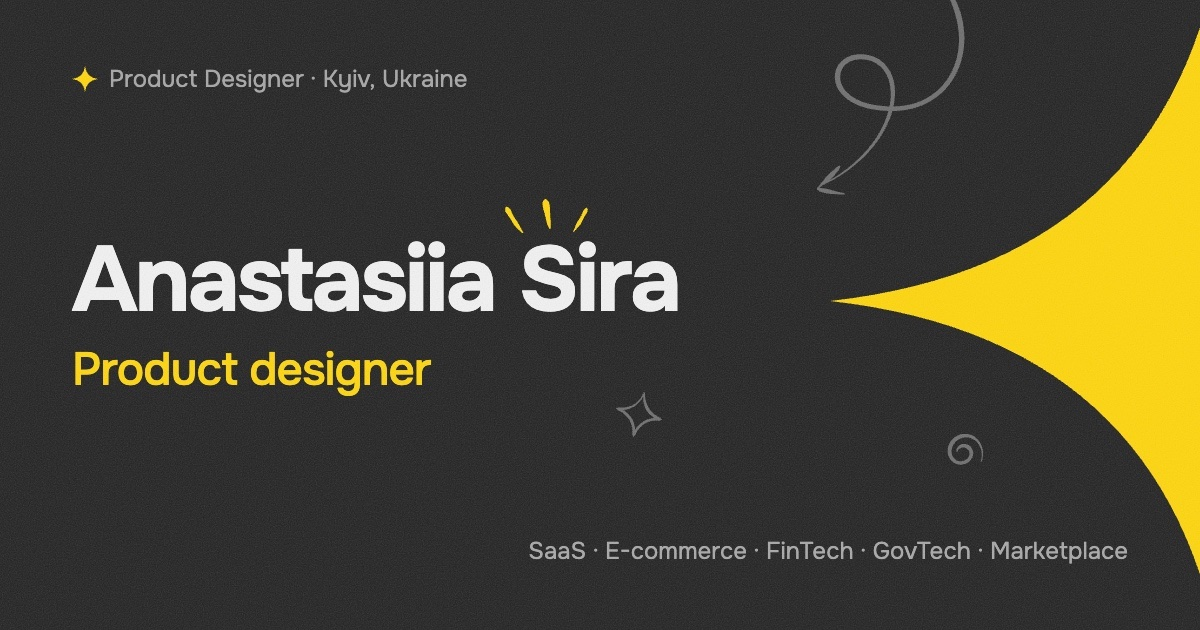
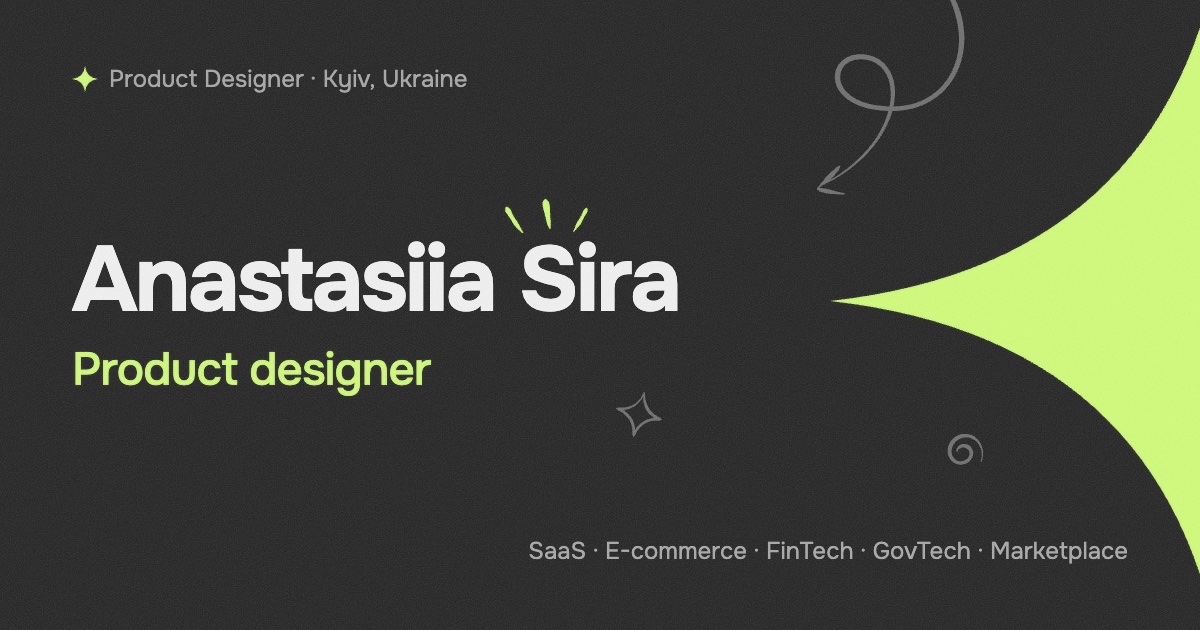
Switch to lime and violet brand colours, new background, OOO roundings
Main accent is now lime #D1FD79 and the second accent violet #6242F5,
including the favicons and the share image. Page background is #1E1F1F.
The hero headline drops the violet word and the final dot. OOO photos
mix small, medium and full-circle roundings.

diff --git a/index.html b/index.html
@@ -104,12 +104,12 @@
       <button class="hero__star-btn" type="button" aria-label="Spin the star"></button>
       <svg class="hero__decor-art" viewBox="0 0 360 360" fill="none" aria-hidden="true" focusable="false">
         <circle cx="180" cy="180" r="224" stroke="rgba(255,255,255,0.08)"/><!-- outer ring, 25% bigger, may overflow the box -->
-        <circle class="hero__ring" cx="180" cy="180" r="120" stroke="#ffd60a" stroke-opacity="0.5" stroke-width="2" stroke-dasharray="8 18"/>
+        <circle class="hero__ring" cx="180" cy="180" r="120" stroke="#d1fd79" stroke-opacity="0.5" stroke-width="2" stroke-dasharray="8 18"/>
         <g class="hero__star">
-          <path fill="#ffd60a" transform="translate(110 110) scale(5.8333)" d="M12 0C12.8 7.2 16.8 11.2 24 12C16.8 12.8 12.8 16.8 12 24C11.2 16.8 7.2 12.8 0 12C7.2 11.2 11.2 7.2 12 0Z"/>
+          <path fill="#d1fd79" transform="translate(110 110) scale(5.8333)" d="M12 0C12.8 7.2 16.8 11.2 24 12C16.8 12.8 12.8 16.8 12 24C11.2 16.8 7.2 12.8 0 12C7.2 11.2 11.2 7.2 12 0Z"/>
         </g>
         <g class="hero__sparkle"><!-- small star: orbits the centre once while the big star spins -->
-          <path fill="rgba(255,214,10,0.7)" transform="translate(262 44) rotate(-41 9 9) scale(0.75)" d="M12 0C12.8 7.2 16.8 11.2 24 12C16.8 12.8 12.8 16.8 12 24C11.2 16.8 7.2 12.8 0 12C7.2 11.2 11.2 7.2 12 0Z"/>
+          <path fill="rgba(209,253,121,0.7)" transform="translate(262 44) rotate(-41 9 9) scale(0.75)" d="M12 0C12.8 7.2 16.8 11.2 24 12C16.8 12.8 12.8 16.8 12 24C11.2 16.8 7.2 12.8 0 12C7.2 11.2 11.2 7.2 12 0Z"/>
         </g>
       </svg>
       </div>
@@ -119,7 +119,7 @@
         <p class="hero__label">Product Designer</p>
       </div>
 
-      <h1 class="hero__title" id="hero-title">I design with <span class="accent">curiosity</span> and<br> a <span class="accent-purple">reason</span> behind every pixel<span class="accent">.</span></h1>
+      <h1 class="hero__title" id="hero-title">I design with <span class="accent">curiosity</span> and<br> a reason behind every pixel</h1>
 
       <p class="hero__text">6+ years designing complex digital products across SaaS, E-commerce, Marketplace, FinTech and GovTech. I improve user journeys and business metrics through research and hypothesis-driven design.</p>
 
@@ -264,28 +264,28 @@
       <div class="gallery">
         <div class="gallery__track">
           <ul class="gallery__list">
-            <li class="gallery__item media"><img src="assets/photo-1.jpeg" alt="Standing by a lakeside railing, with green hills and a speedboat behind" width="1038" height="1280" loading="lazy"></li>
-            <li class="gallery__item media"><img src="assets/photo-2.jpeg" alt="In a grey hoodie on a golden mountain meadow in autumn" width="795" height="894" loading="lazy"></li>
-            <li class="gallery__item media"><img src="assets/photo-3.jpeg" alt="Two glasses of rosé and a box of cheese on a picnic bench at a food and wine festival" width="720" height="772" loading="lazy"></li>
-            <li class="gallery__item media"><img src="assets/photo-4.jpeg" alt="Looking at Monet’s Poppy Field in a museum" width="720" height="716" loading="lazy"></li>
-            <li class="gallery__item media"><img src="assets/photo-5.jpeg" alt="Holding a freshly found porcini mushroom in an autumn forest" width="1117" height="1280" loading="lazy"></li>
-            <li class="gallery__item media"><img src="assets/photo-6.jpeg" alt="Flowering cacti against a clear blue sky in Sharm el-Sheikh" width="720" height="808" loading="lazy"></li>
-            <li class="gallery__item media"><img src="assets/photo-7.jpeg" alt="Selfie with long wavy blonde hair" width="720" height="1280" loading="lazy"></li>
-            <li class="gallery__item media"><img src="assets/photo-8.jpeg" alt="Homemade crêpes in a pan and stacked on a plate" width="720" height="1280" loading="lazy"></li>
-            <li class="gallery__item media"><img src="assets/photo-9.jpeg" alt="Orange sunset over the city skyline" width="1137" height="1280" loading="lazy"></li>
-            <li class="gallery__item media"><img src="assets/photo-10.jpeg" alt="An open book on a beach towel in the sun" width="1040" height="1280" loading="lazy"></li>
+            <li class="gallery__item gallery__item--lg media"><img src="assets/photo-1.jpeg" alt="Standing by a lakeside railing, with green hills and a speedboat behind" width="1038" height="1280" loading="lazy"></li>
+            <li class="gallery__item gallery__item--md media"><img src="assets/photo-2.jpeg" alt="In a grey hoodie on a golden mountain meadow in autumn" width="795" height="894" loading="lazy"></li>
+            <li class="gallery__item gallery__item--sm media"><img src="assets/photo-3.jpeg" alt="Two glasses of rosé and a box of cheese on a picnic bench at a food and wine festival" width="720" height="772" loading="lazy"></li>
+            <li class="gallery__item gallery__item--md media"><img src="assets/photo-4.jpeg" alt="Looking at Monet’s Poppy Field in a museum" width="720" height="716" loading="lazy"></li>
+            <li class="gallery__item gallery__item--lg media"><img src="assets/photo-5.jpeg" alt="Holding a freshly found porcini mushroom in an autumn forest" width="1117" height="1280" loading="lazy"></li>
+            <li class="gallery__item gallery__item--sm media"><img src="assets/photo-6.jpeg" alt="Flowering cacti against a clear blue sky in Sharm el-Sheikh" width="720" height="808" loading="lazy"></li>
+            <li class="gallery__item gallery__item--lg media"><img src="assets/photo-7.jpeg" alt="Selfie with long wavy blonde hair" width="720" height="1280" loading="lazy"></li>
+            <li class="gallery__item gallery__item--sm media"><img src="assets/photo-8.jpeg" alt="Homemade crêpes in a pan and stacked on a plate" width="720" height="1280" loading="lazy"></li>
+            <li class="gallery__item gallery__item--md media"><img src="assets/photo-9.jpeg" alt="Orange sunset over the city skyline" width="1137" height="1280" loading="lazy"></li>
+            <li class="gallery__item gallery__item--sm media"><img src="assets/photo-10.jpeg" alt="An open book on a beach towel in the sun" width="1040" height="1280" loading="lazy"></li>
           </ul>
           <ul class="gallery__list" aria-hidden="true">
-            <li class="gallery__item media"><img src="assets/photo-1.jpeg" alt="" width="1038" height="1280" loading="lazy"></li>
-            <li class="gallery__item media"><img src="assets/photo-2.jpeg" alt="" width="795" height="894" loading="lazy"></li>
-            <li class="gallery__item media"><img src="assets/photo-3.jpeg" alt="" width="720" height="772" loading="lazy"></li>
-            <li class="gallery__item media"><img src="assets/photo-4.jpeg" alt="" width="720" height="716" loading="lazy"></li>
-            <li class="gallery__item media"><img src="assets/photo-5.jpeg" alt="" width="1117" height="1280" loading="lazy"></li>
-            <li class="gallery__item media"><img src="assets/photo-6.jpeg" alt="" width="720" height="808" loading="lazy"></li>
-            <li class="gallery__item media"><img src="assets/photo-7.jpeg" alt="" width="720" height="1280" loading="lazy"></li>
-            <li class="gallery__item media"><img src="assets/photo-8.jpeg" alt="" width="720" height="1280" loading="lazy"></li>
-            <li class="gallery__item media"><img src="assets/photo-9.jpeg" alt="" width="1137" height="1280" loading="lazy"></li>
-            <li class="gallery__item media"><img src="assets/photo-10.jpeg" alt="" width="1040" height="1280" loading="lazy"></li>
+            <li class="gallery__item gallery__item--lg media"><img src="assets/photo-1.jpeg" alt="" width="1038" height="1280" loading="lazy"></li>
+            <li class="gallery__item gallery__item--md media"><img src="assets/photo-2.jpeg" alt="" width="795" height="894" loading="lazy"></li>
+            <li class="gallery__item gallery__item--sm media"><img src="assets/photo-3.jpeg" alt="" width="720" height="772" loading="lazy"></li>
+            <li class="gallery__item gallery__item--md media"><img src="assets/photo-4.jpeg" alt="" width="720" height="716" loading="lazy"></li>
+            <li class="gallery__item gallery__item--lg media"><img src="assets/photo-5.jpeg" alt="" width="1117" height="1280" loading="lazy"></li>
+            <li class="gallery__item gallery__item--sm media"><img src="assets/photo-6.jpeg" alt="" width="720" height="808" loading="lazy"></li>
+            <li class="gallery__item gallery__item--lg media"><img src="assets/photo-7.jpeg" alt="" width="720" height="1280" loading="lazy"></li>
+            <li class="gallery__item gallery__item--sm media"><img src="assets/photo-8.jpeg" alt="" width="720" height="1280" loading="lazy"></li>
+            <li class="gallery__item gallery__item--md media"><img src="assets/photo-9.jpeg" alt="" width="1137" height="1280" loading="lazy"></li>
+            <li class="gallery__item gallery__item--sm media"><img src="assets/photo-10.jpeg" alt="" width="1040" height="1280" loading="lazy"></li>
           </ul>
         </div>
       </div>

diff --git a/styles.css b/styles.css
@@ -10,17 +10,17 @@
    --------------------------------------------------------- */
 :root {
   /* Colours */
-  --color-bg: #222222;            /* page background */
+  --color-bg: #1e1f1f;            /* page background */
   --color-bg-deep: #1b1b1b;       /* header, footer */
   --color-surface: #262626;       /* cards */
   --color-placeholder: #2b2b2b;   /* grey box when an image is missing */
   --color-text: #f2f2f2;          /* main text */
   --color-text-muted: #a8a8a8;    /* labels, meta (7:1 on bg) */
   --color-text-subtle: #8a8a8a;   /* non-clickable footer text (5:1 on footer bg, passes AA) */
-  --color-accent: #ffd60a;        /* yellow */
-  --color-accent-purple: #b796ff; /* lavender, second accent (6.7:1 on bg) */
+  --color-accent: #d1fd79;        /* lime, main brand colour (13.7:1 on bg) */
+  --color-accent-purple: #6242f5; /* violet, second accent. Only 2.7:1 on bg: below WCAG AA for text, kept on purpose (brand colour) */
   --color-on-accent: #1a1a1a;     /* text on yellow */
-  --color-sticker: #ffea84;        /* sticky note: the yellow with half the saturation, lighter */
+  --color-sticker: #ffea84;        /* sticky note: pale yellow (kept when the brand colour became lime) */
   --color-border: rgba(255, 255, 255, 0.14);
   --color-border-strong: rgba(255, 255, 255, 0.32);
   --color-border-tag: rgba(255, 255, 255, 0.12);  /* soft outline of tags/pills (decorative, not a contrast requirement) */
@@ -322,7 +322,7 @@ svg { flex-shrink: 0; }
   height: var(--header-h);
   /* 75% dark background (25% see-through), content under it is blurred.
      Checked: even over pure white content the text keeps AA contrast
-     (white 6.8:1, yellow 5.4:1). */
+     (white 7.6:1, lime 6.5:1). */
   background: rgba(27, 27, 27, 0.75);   /* --color-bg-deep at 75% */
   -webkit-backdrop-filter: blur(12px);
           backdrop-filter: blur(12px);
@@ -615,7 +615,7 @@ svg { flex-shrink: 0; }
 .hero__star-btn:hover + .hero__decor-art .hero__star,
 .hero__star-btn:focus-visible + .hero__decor-art .hero__star {
   scale: 1.5;
-  filter: drop-shadow(0 0 1.25rem rgba(255, 214, 10, 0.55));
+  filter: drop-shadow(0 0 1.25rem rgba(209, 253, 121, 0.55));
 }
 /* ...and the dashed yellow circle grows 20% with it */
 .hero__ring { transition: scale 300ms var(--ease); }
@@ -744,7 +744,7 @@ svg { flex-shrink: 0; }
 .case-card:focus-visible {
   transform: translateY(-4px);
   border-color: var(--color-accent);
-  box-shadow: 0 12px 40px -12px rgba(255, 214, 10, 0.35);
+  box-shadow: 0 12px 40px -12px rgba(209, 253, 121, 0.35);
 }
 .case-card:hover .case-card__media img,
 .case-card:focus-visible .case-card__media img { transform: scale(1.08); }   /* cover zoom on hover */
@@ -996,6 +996,11 @@ svg { flex-shrink: 0; }
   margin-right: var(--gallery-gap);       /* margin (not gap) so both copies are exactly equal */
   border-radius: var(--radius-md);        /* same as the case cards */
 }
+/* Three kinds of rounding, mixed along the strip (set per photo in the HTML).
+   In % of the photo, so they look the same on every screen size. */
+.gallery__item--sm { border-radius: 5%; }    /* small: almost square */
+.gallery__item--md { border-radius: 15%; }   /* medium */
+.gallery__item--lg { border-radius: 50%; }   /* large: a full circle */
 
 /* Motion: only once the section is on screen (.is-playing from script.js),
    and not while paused or for people who turned on "Reduce motion" */
@@ -1035,7 +1040,7 @@ svg { flex-shrink: 0; }
   padding-block: calc(var(--space-8) * 1.6);   /* ~102px above and below the content */
   border-top: 1px solid var(--color-border);
   /* soft yellow glow in the top-right corner */
-  background: radial-gradient(60% 80% at 100% 0%, rgba(255, 214, 10, 0.08), transparent 70%);
+  background: radial-gradient(60% 80% at 100% 0%, rgba(209, 253, 121, 0.08), transparent 70%);
 }
 
 .contact__list {
